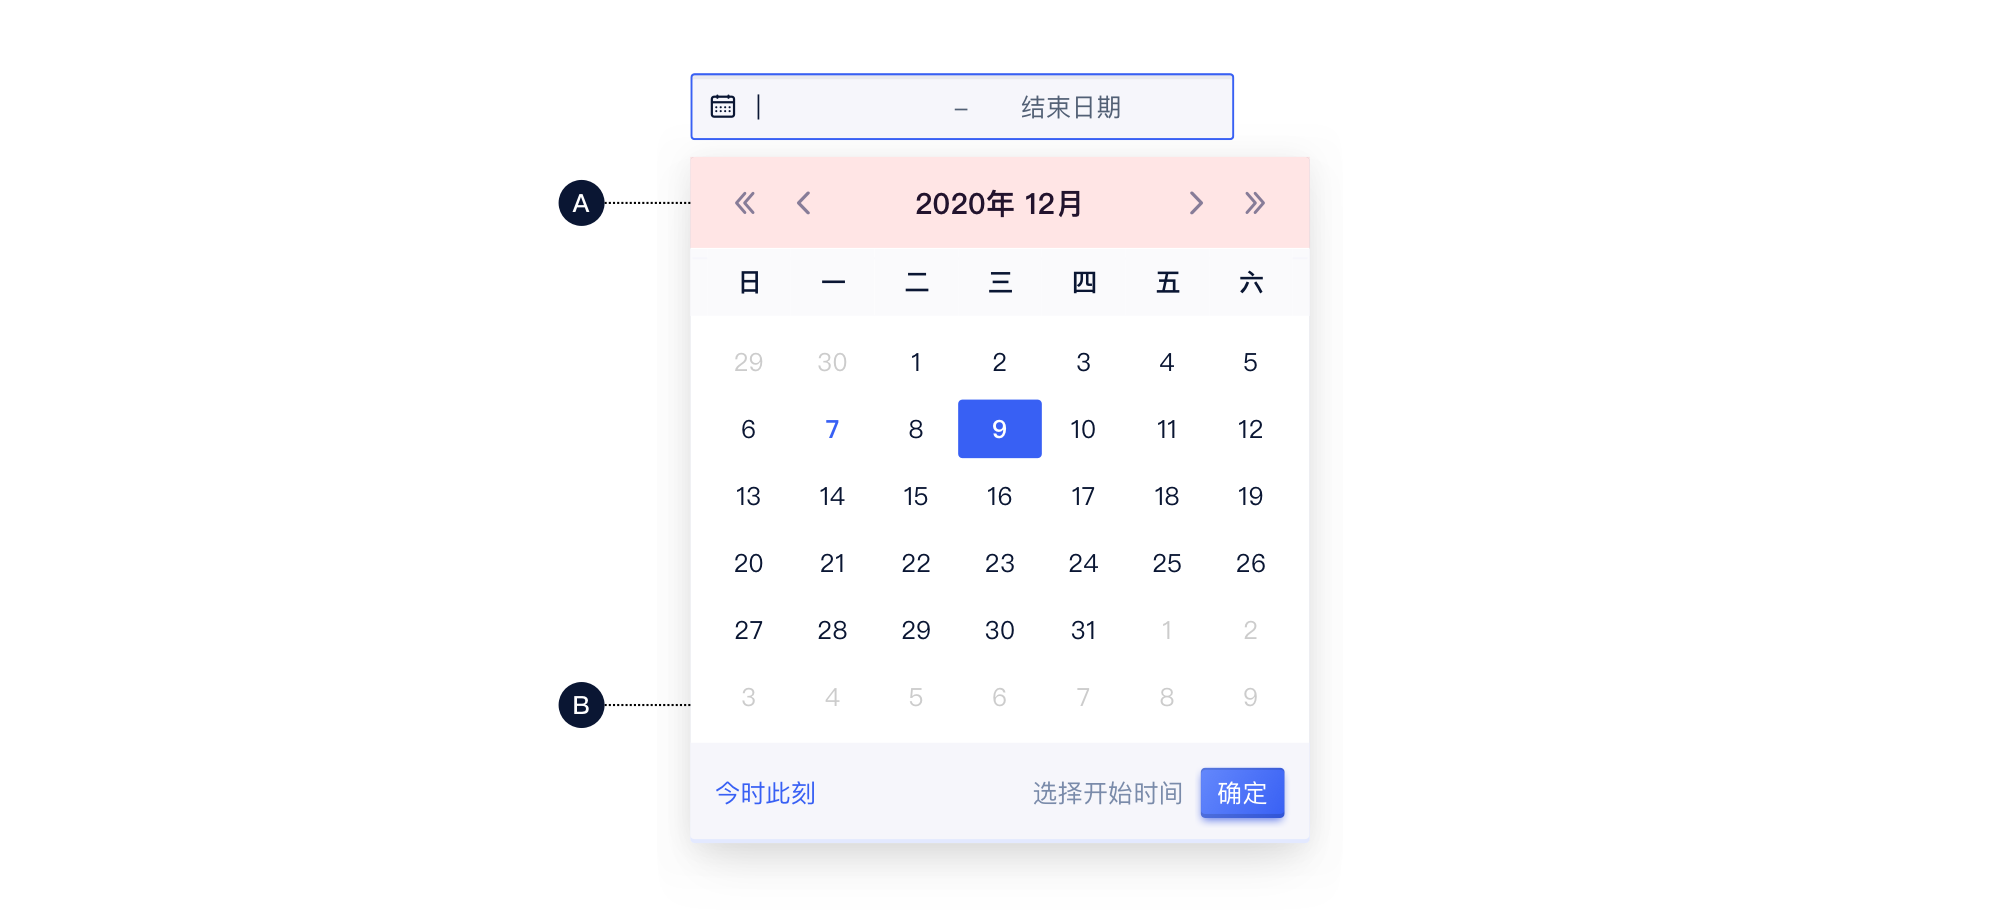
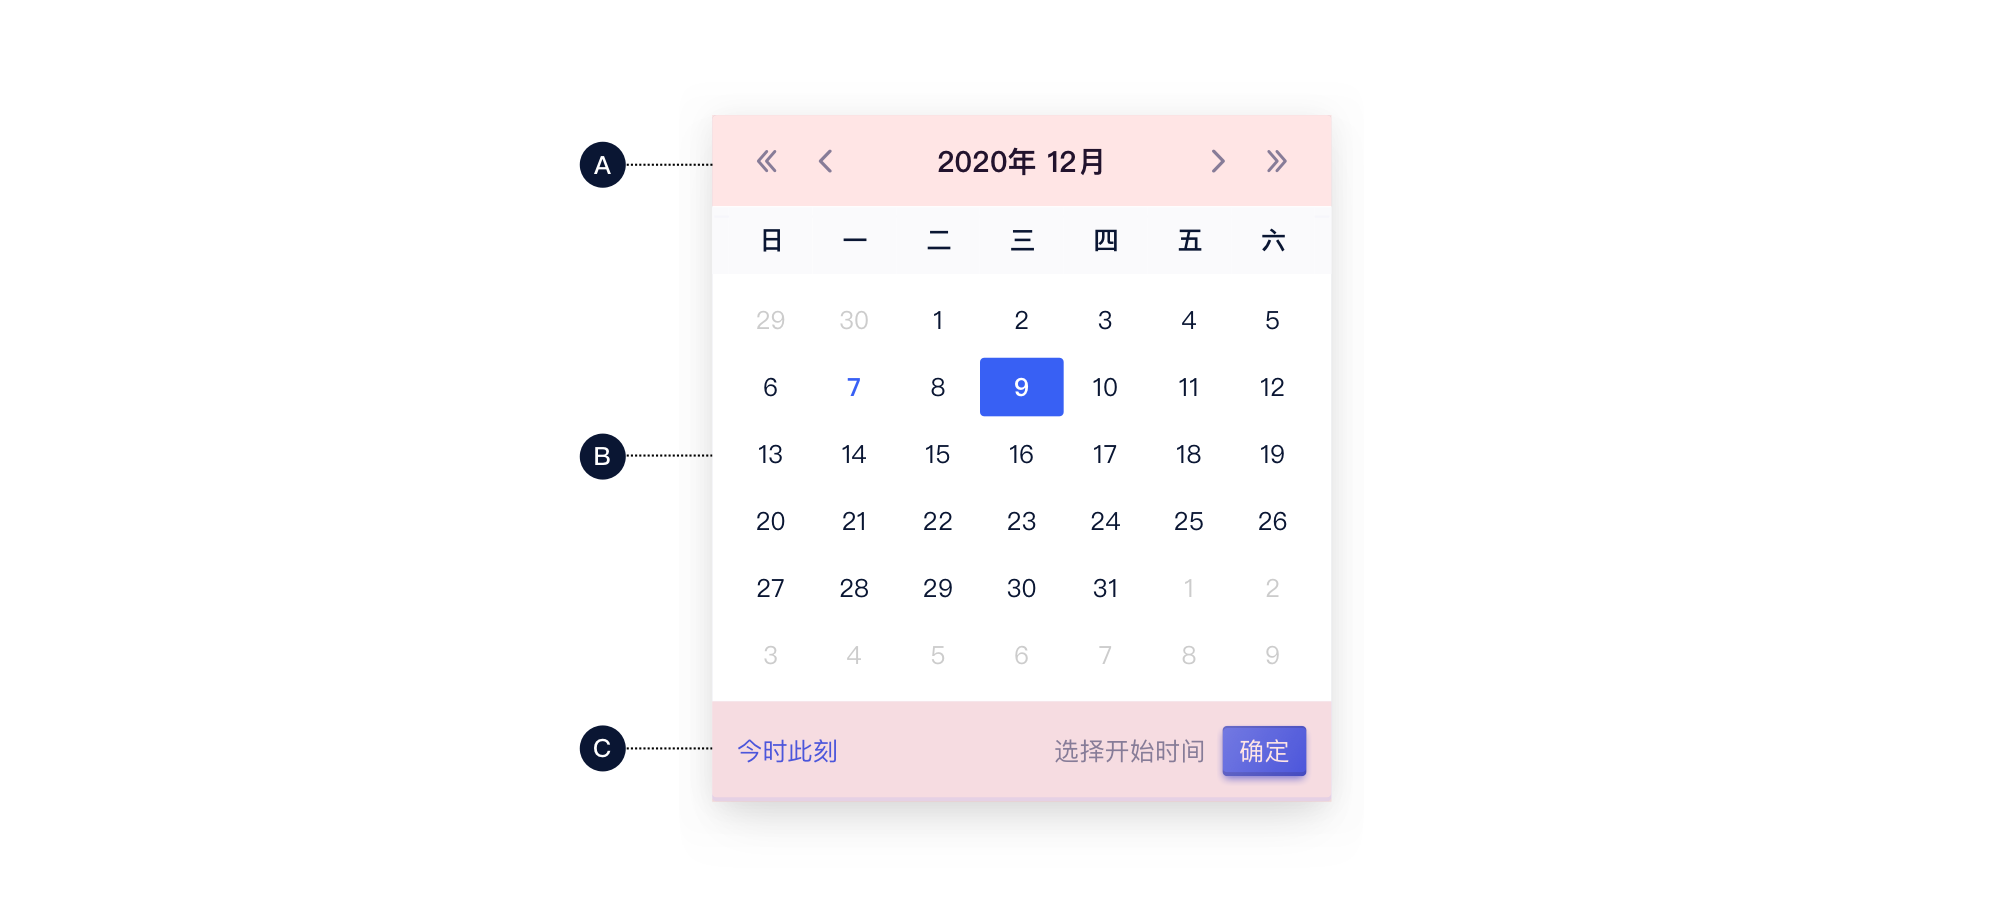
修改calendar

diff --git a/content/component/list/Calendar/index.md b/content/component/list/Calendar/index.md
@@ -18,16 +18,25 @@ description: "用于展示日期数据的容器"
 
 <!--图片存储路径为images下新建元素名文件夹，例/images/Name/pic.png-->
 
-| 类型 | 标题栏（A） | 容器（B） |
-| :--: | :---------: | :-------: |
-| 常规 |      √      |     √     |
+| 类型 | 标题栏（A） | 容器（B） | 操作区域（C） |
+| :--: | :---------: | :-------: | :-----------: |
+| 常规 |      √      |     √     |       √       |
 
+**A.标题栏**
 
+- 展示当前年/月/日
+- 支持快速向前/向后切换
+- 点击可快速进入对应时间单位的选择面板
 
-| 标题栏                                                       | 容器                                                 |
-| :----------------------------------------------------------- | ---------------------------------------------------- |
-| - 展示当前年/月/日<br />- 支持快速向前/向后切换<br />- 点击可快速进入对应时间单位的选择面板 | - 展示当前最小单元的数据（如，日历下最小单元为“日”） |
+**B.容器**
 
+- 展示当前最小单元的数据（如，日历下最小单元为“日”）
+
+**C.操作区域**
+
+- 显示操作后的结果和动作按钮
+
+  
 
 ## 基本样式
 
@@ -43,26 +52,25 @@ description: "用于展示日期数据的容器"
 | 年月   | 选择具体到“月”。默认展示当月。       |
 | 年     | 选择具体到“年”。默认展示今年。       |
 
+#### 年月日
+
+![](../../../images/Calendar/常规样式-年月日.png)
+
+#### 年月
+
+![](../../../images/Calendar/常规样式-年月.png)
+
+#### 年
+
+![](../../../images/Calendar/常规样式-年.png)
 
 ### 尺寸
 
-![此处缺图]()
-
-<!--图片存储路径为images下新建元素名文件夹，例/images/Name/pic.png-->
-
-|        | 尺寸 |
-| :----- | :--- |
-| Large  |      |
-| Middle |      |
-| Small  |      |
+![](../../../images/Calendar/尺寸.png)
 
 
 
 ## 基本状态
-
-![此处缺图]()
-
-<!--图片存储路径为images下新建元素名文件夹，例/images/Name/pic.png-->
 
 | 状态                 | 说明                   | 作用                                                         |
 | :------------------- | :--------------------- | ------------------------------------------------------------ |
@@ -73,21 +81,29 @@ description: "用于展示日期数据的容器"
 | 禁用                 | 禁用选择               | 当前数据不可选择                                             |
 | 范围外日期           | 不在当前月份内         | 补全展示上个月/下个月的日期，可点击，点击后自动切换到下一个周期 |
 
+![](../../../images/Calendar/基本状态.png)
+
 
 
 ## 设计说明
 
 ### 原则
 
-日历组件一般配合选择器进行使用，组合成 “时间选择器 Time Picker”或者”日期选择器 Date Picker”。
+1.日历组件一般配合选择器进行使用，组合成 “时间选择器 Time Picker”或者”日期选择器 Date Picker”。
 
-![提供时间选择器及日期选择器示意图]()
+#### 时间选择器
 
-#### 1.可选范围与业务要求一致
+![](../../../images/Calendar/时间选择器.png)
+
+#### 日期选择器
+
+![](../../../images/Calendar/日期选择器.png)
+
+2.可选范围与业务要求一致。
 
 如业务限定出明确的可选范围，应配合业务要求适时禁用向前/向后切换操作或部分日期。
 
-![示意图]()
+![](../../../images/Calendar/向后切换操作或部分日期.png)
 
 
 

diff --git a/content/component/list/Card/index.md b/content/component/list/Card/index.md
@@ -73,7 +73,7 @@ description: "卡片，聚合同类信息的容器。"
 
 ### 常规样式
 
-![常规样式](../../../images/Card/常规样式.png)
+![](../../../images/Card/常规样式.png)
 
 ### 尺寸
 
